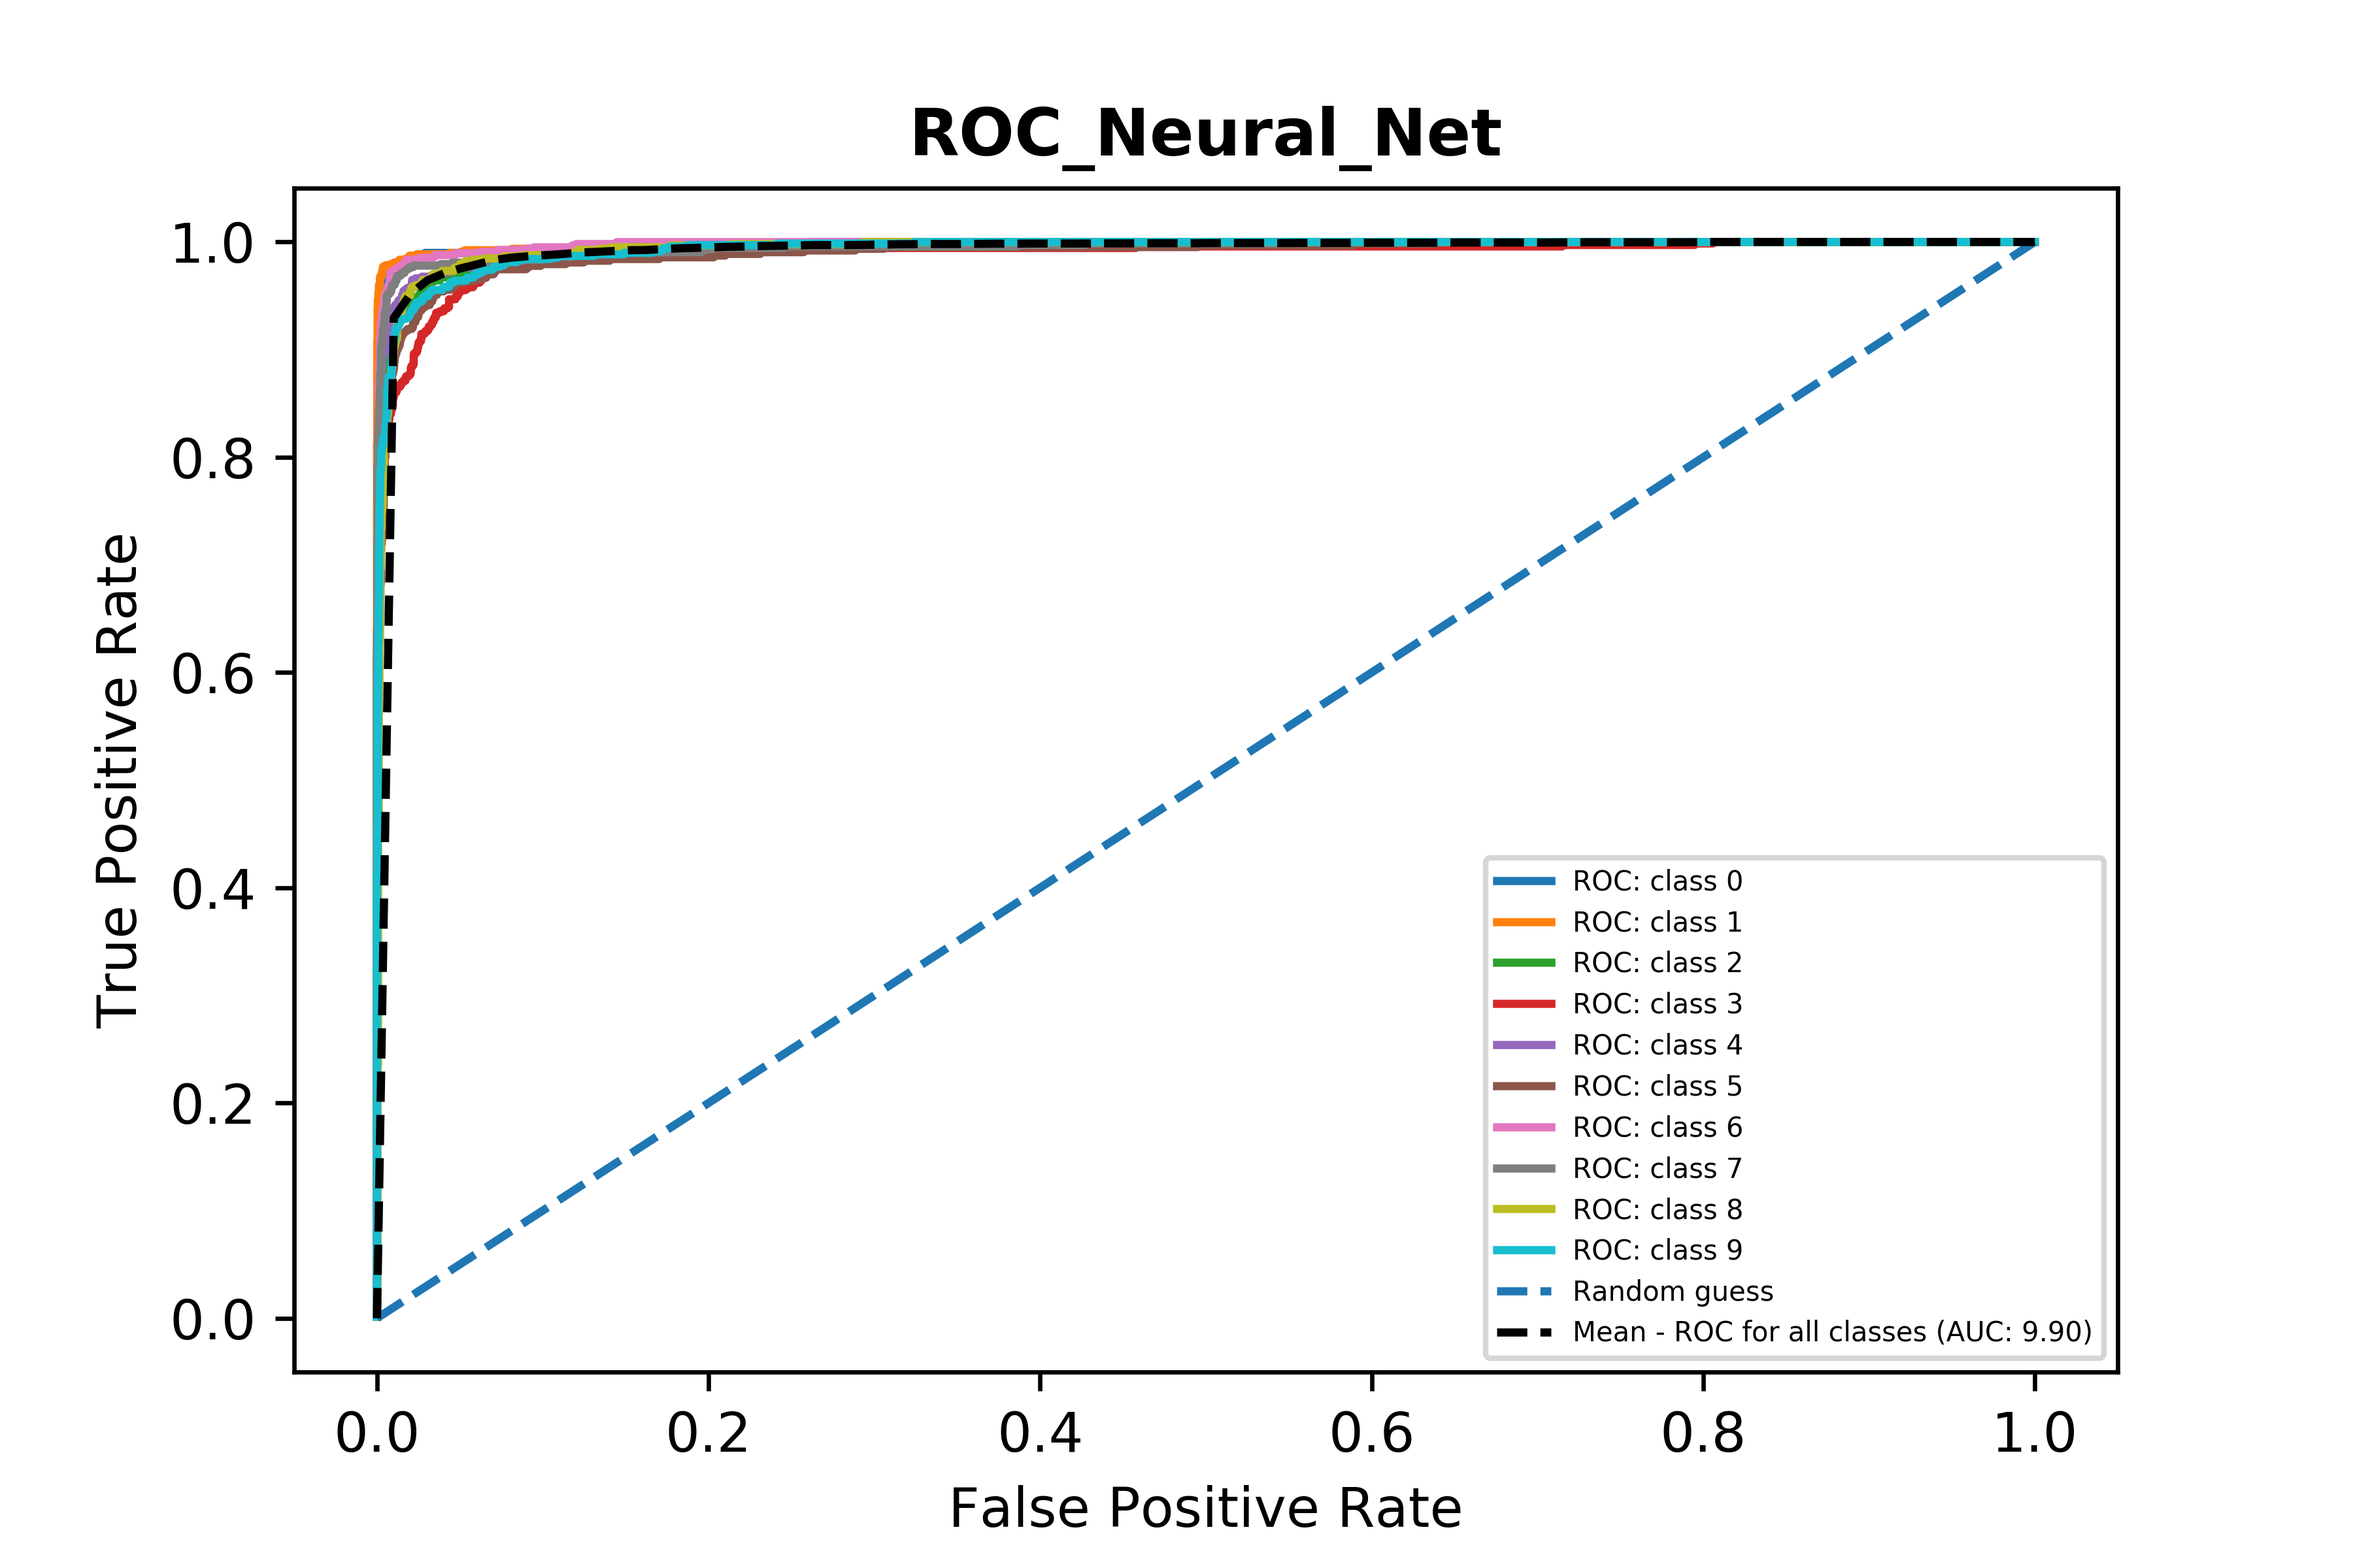
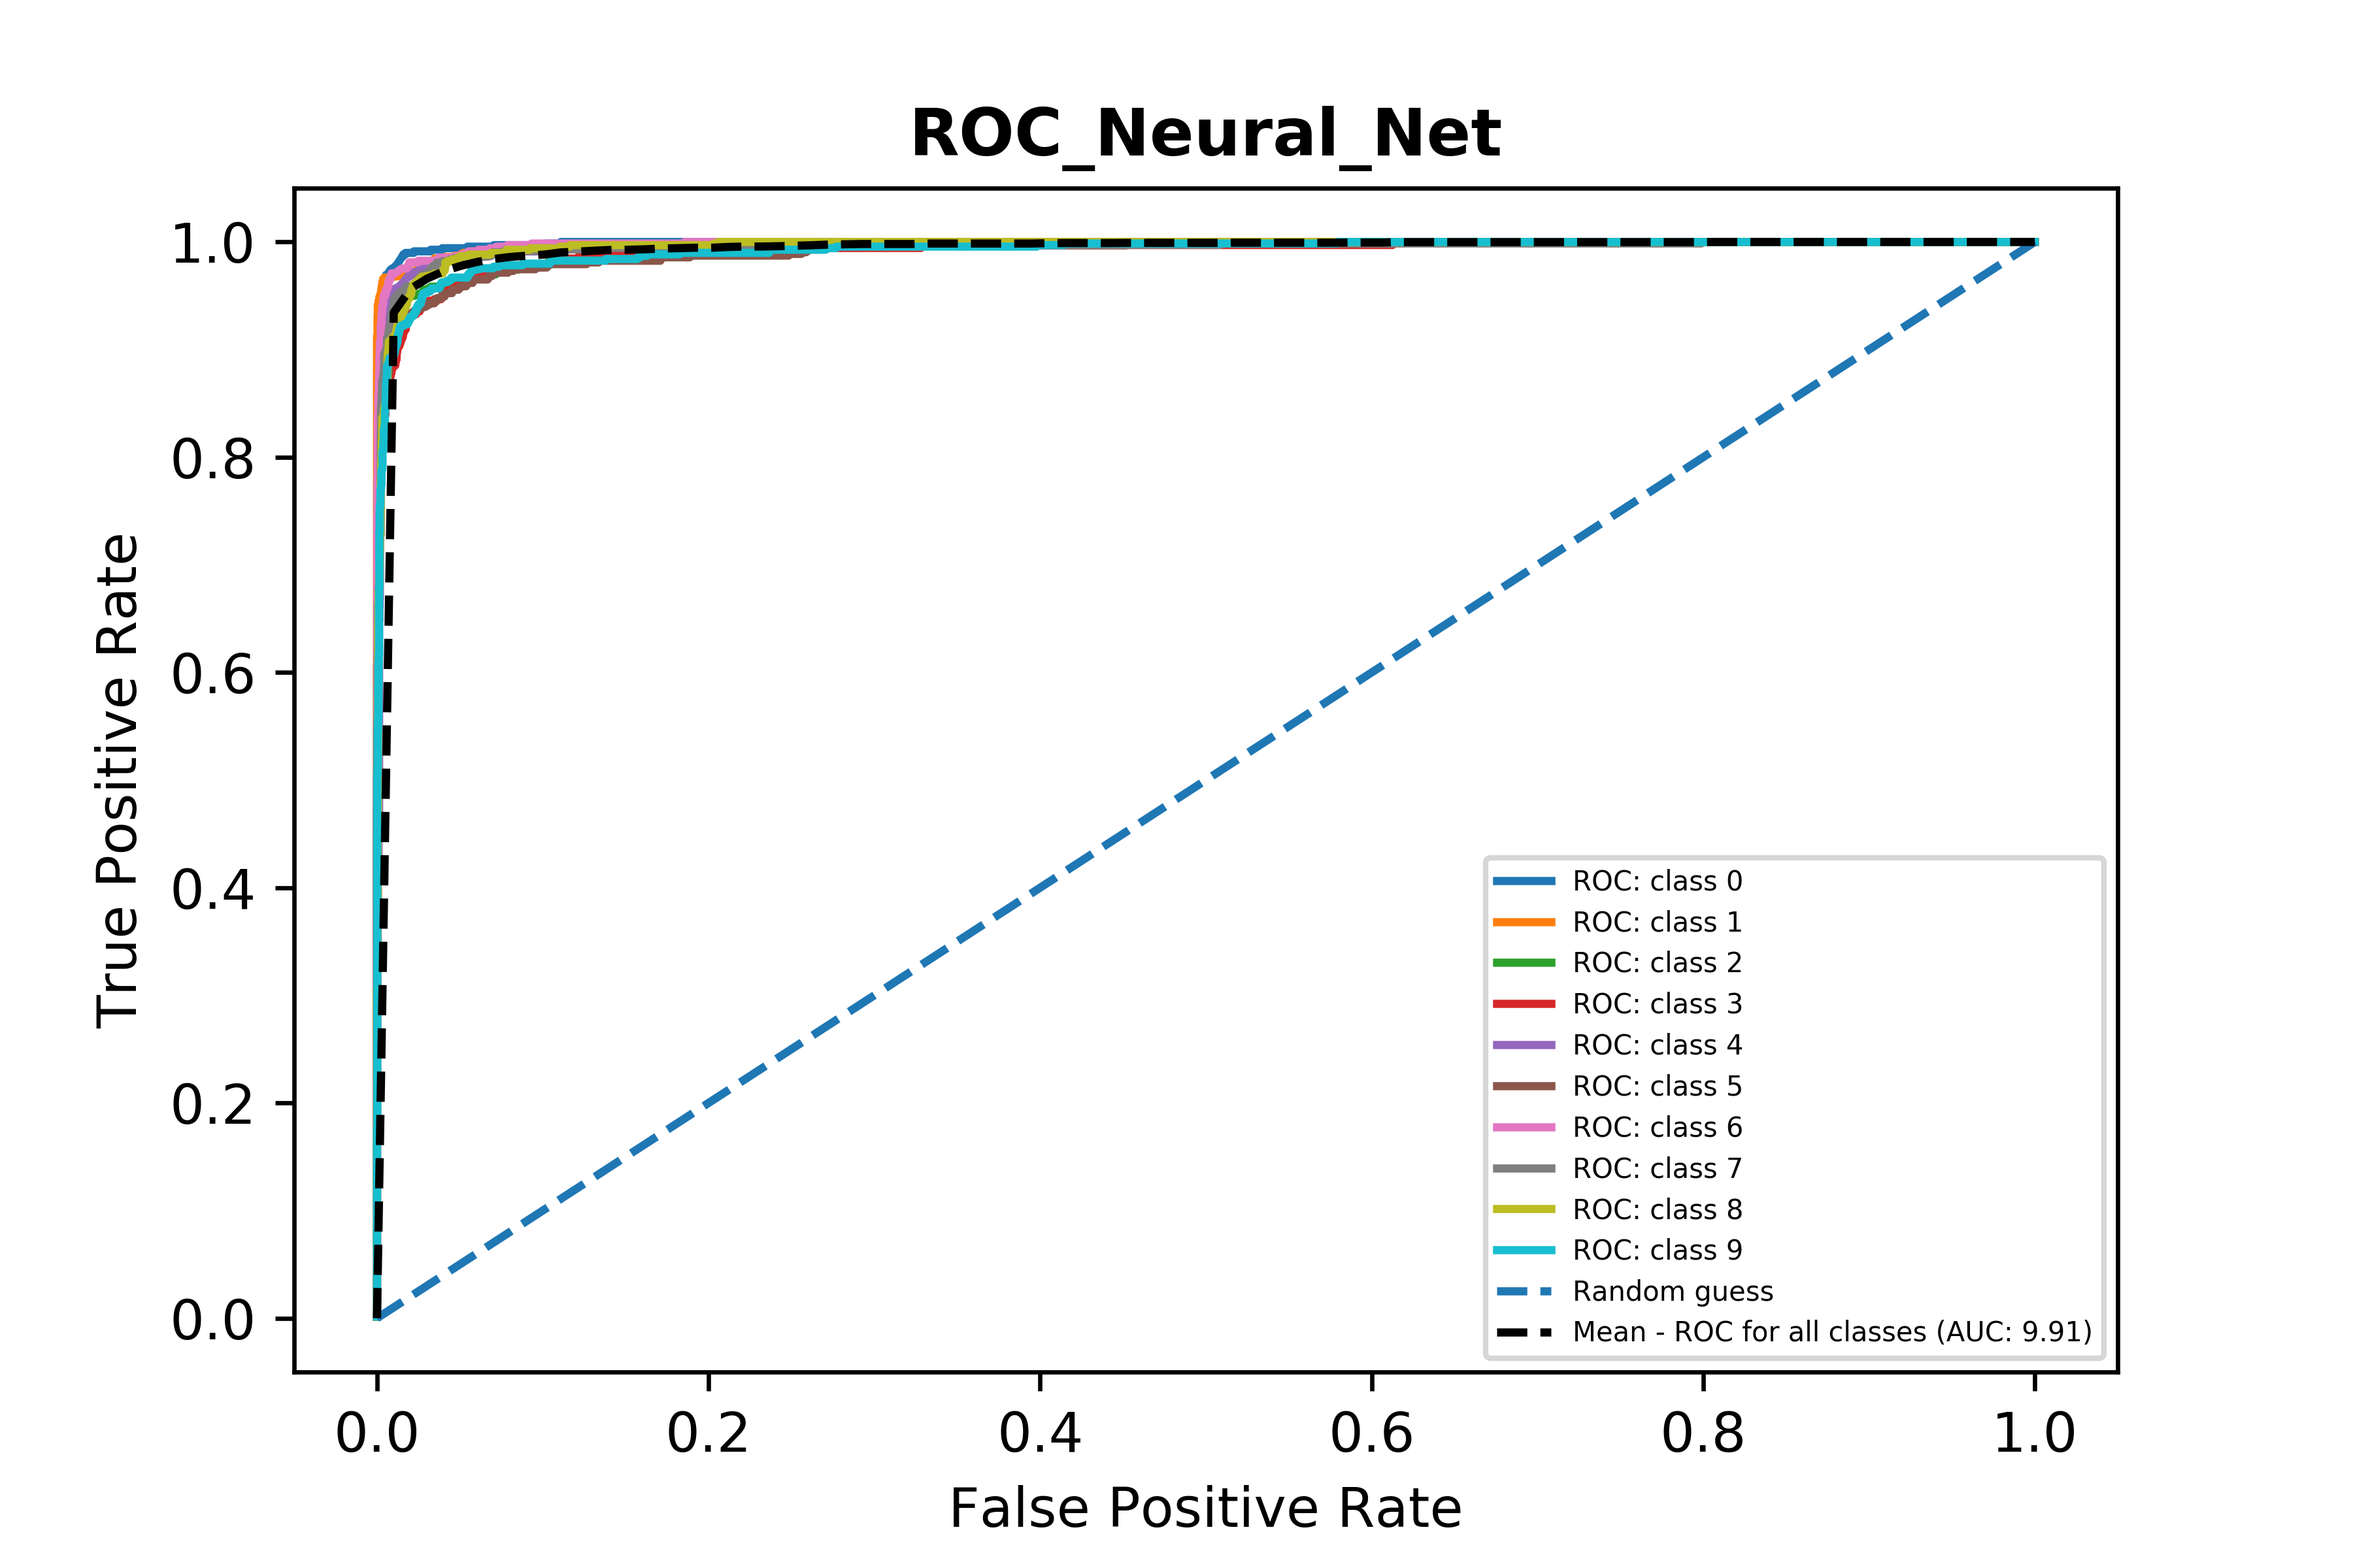
Adding plots with error bars

Changed region(s): [[0.1556, 0.125, 0.56, 0.3125], [0.5911, 0.1562, 0.6533, 0.1875]]

diff --git a/code/result_gen.py b/code/result_gen.py
@@ -42,16 +42,12 @@ def roc_curve_params(y_true, y_score, pos_label):
     desc_score_indices = np.argsort(y_score, kind="mergesort")[::-1]
     y_score = y_score[desc_score_indices]
     y_true = y_true[desc_score_indices]
-    weight = 1.
-
-    # y_score typically has many tied values. Here we extract
-    # the indices associated with the distinct values. We also
-    # concatenate a value for the end of the curve.
+    
     distinct_value_indices = np.where(np.diff(y_score))[0]
     threshold_idxs = np.r_[distinct_value_indices, y_true.size - 1]
 
     # accumulate the true positives with decreasing threshold
-    tps = np.cumsum(y_true * weight, dtype=np.float64)[threshold_idxs]
+    tps = np.cumsum(y_true, dtype=np.float64)[threshold_idxs]
     fps = 1 + threshold_idxs - tps
     
     fpr = fps / fps[-1]
@@ -82,4 +78,116 @@ def confusion_matrix_plot(conf_mat, classes, filename):
     plt.xlabel('Predicted label')
     plt.savefig(filename, dpi=600)
 #    plt.show()
+
+def plot_accuracy(accuracy_file_name, filename, plot_no):
+    accuracy_values = np.loadtxt(accuracy_file_name , delimiter=',')
+    '''
+    accuracy_values_2 = np.loadtxt(accuracy_file_name_1 , delimiter=',')
+    accuracy_values = np.zeros((accuracy_values_1.shape[0] + accuracy_values_2.shape[0], accuracy_values_1.shape[1]))
+    accuracy_values[0,:] = accuracy_values_1[0,:]
+    accuracy_values[1:4,:] = accuracy_values_2
+    accuracy_values[4:] = accuracy_values_1[1:]
+    '''
     
+    if (plot_no == 1):
+        n = accuracy_values.shape[1]
+        alpha = np.logspace(-4,3,8)
+        
+        plt.figure()
+        plt.errorbar(alpha,accuracy_values.mean(axis=1), yerr=accuracy_values.std(axis=1)/np.sqrt(n),
+                     label='Accuracy')
+        plt.grid(linestyle='--')
+        plt.xscale('log')
+        plt.gca().set(xlabel=r'$\alpha$ (regularization)', ylabel='Mean Accuracy (10-fold CV)')
+        plt.title(r'$\alpha$ (regularization) optimization using the 10-fold CV') 
+        plt.savefig(filename, dpi = 600)
+        plt.show()
+    
+    elif (plot_no == 2):  
+        n = accuracy_values.shape[1]
+        act_fcns = ['logistic','tanh', 'relu']
+        x = np.arange(accuracy_values.shape[0])
+        
+        fig, ax = plt.subplots(1,1)
+        ax.set_xticks(np.arange(0,3,1))
+        ax.set_xticklabels(act_fcns, rotation=20)
+        ax.errorbar(x, accuracy_values.mean(axis=1), yerr=accuracy_values.std(axis=1)/np.sqrt(n),
+                     label='Accuracy')
+        ax.grid(linestyle='--')
+        ax.set_title('Choosing activation function using the 10-fold CV')
+        ax.set_ylabel('Mean accuracy') 
+        plt.savefig(filename, dpi = 600)
+        plt.show()
+    
+    elif (plot_no == 3):
+        n = accuracy_values.shape[1]
+        learn_rate = np.arange(0.0001, 0.0021, 0.0001)
+        
+        plt.figure()
+        plt.errorbar(learn_rate,accuracy_values.mean(axis=1), yerr=accuracy_values.std(axis=1)/np.sqrt(n),
+                     label='Accuracy')
+        plt.grid(linestyle='--')
+        plt.gca().set(xlabel=r'Learning rate ($\eta$)', ylabel='Mean Accuracy (10-fold CV)')
+        plt.title(r'Learning rate ($\eta$) optimization using the 10-fold CV') 
+        plt.savefig(filename, dpi = 600)
+        plt.show()
+        
+    elif(plot_no == 4):      
+        n = accuracy_values.shape[1]
+        mean_accuracy = accuracy_values.mean(axis=1)
+        yerr_std = accuracy_values.std(axis=1)/np.sqrt(n)
+        C = np.logspace(-2,2,num=5)
+        C = np.append(C,np.array([2,5,20,40,50,60,70,80,90]))
+        
+        mean_accuracy_ord = np.array([])
+        mean_accuracy_ord = np.concatenate((mean_accuracy[:3],mean_accuracy[5:7],mean_accuracy[7:]))
+        mean_accuracy_ord = np.insert(mean_accuracy_ord, 5,mean_accuracy[3])
+        mean_accuracy_ord = np.insert(mean_accuracy_ord, 13,mean_accuracy[4])
+        var_accuracy_ord = np.array([])
+        var_accuracy_ord = np.concatenate((yerr_std[:3],yerr_std[5:7],yerr_std[7:]))
+        var_accuracy_ord = np.insert(var_accuracy_ord, 5,yerr_std[3])
+        var_accuracy_ord = np.insert(var_accuracy_ord, 13,yerr_std[4])
+        C_ord = np.array([])
+        C_ord = np.concatenate((C[:3],C[5:7],C[7:]))
+        C_ord = np.insert(C_ord, 5,C[3])
+        C_ord = np.insert(C_ord, 13,C[4])
+        plt.figure()
+        plt.grid(linestyle='--')
+        plt.errorbar(C_ord,mean_accuracy_ord, yerr=var_accuracy_ord,
+                     label='Accuracy')
+        plt.plot(C_ord,mean_accuracy_ord)
+        plt.gca().set(xlabel='C (regularization)', ylabel='Mean Accuracy (10-fold CV)')
+        plt.title('C (regularization) optimization using the 10-fold CV')    
+        plt.savefig(filename, dpi = 600)
+        plt.show()
+    
+def main():
+
+    '''    
+    Neural Net Plots
+    '''
+    # Parameter tuning
+    csv_filename_1 = "../experiments/expNN/neural_net_accuracy_vs_alpha.csv"
+    filename_1 = '..\Results_Plots\Neural_net_alpha_mean_acc_error_bar.png'
+    
+    csv_filename_2 = "../experiments/expNN/neural_net_accuracy_vs_activation_fcn.csv"
+    filename_2 = '..\Results_Plots\Neural_net_act_fcn_mean_acc_error_bar.png'
+    
+    csv_filename_3 = "../experiments/expNN/neural_net_accuracy_vs_learn_rate.csv"
+    filename_3 = '..\Results_Plots\Neural_net_learn_rate_mean_acc_error_bar.png'
+
+    plot_accuracy(csv_filename_1, filename_1, 1)
+    plot_accuracy(csv_filename_2, filename_2, 2)
+    plot_accuracy(csv_filename_3, filename_3, 3)
+    
+    '''    
+    SVM Plots
+    '''
+    csv_filename_4 = "../experiments/expSVM/svm_accuracy_vs_C.csv"
+    filename_4 = '..\Results_Plots\SVM_regularization_C_mean_acc_error_bar.png'
+
+    plot_accuracy(csv_filename_4, filename_4, 4)
+
+    
+if __name__ == "__main__":
+    main()

diff --git a/code/neural_net_experiments.py b/code/neural_net_experiments.py
@@ -184,3 +184,14 @@ def k_fold_CV_hypothesis_test():
     np.savetxt("../experiments/expNN/neural_net_train_time_hypo_test.csv", train_time, delimiter=",", fmt="%.3f")
     np.savetxt("../experiments/expNN/neural_net_predict_time_hypo_test.csv", predict_time, delimiter=",", fmt="%.3f")
     
+def k_fold_CV_hypothesis_test_without_PCA():
+    alpha = 100
+    learn_rate = 0.002
+    act_fcn = 'logistic'
+    accuracy, train_time, predict_time = mnist_neural_net.cross_validation_k_fold(alpha = alpha, 
+                       act_fcn = act_fcn,learn_rate=learn_rate)
+    
+    np.savetxt("../experiments/expNN/neural_net_accuracy_hypo_test_without_pca.csv", accuracy, delimiter=",", fmt="%.3f")
+    np.savetxt("../experiments/expNN/neural_net_train_time_hypo_test_without_pca.csv", train_time, delimiter=",", fmt="%.3f")
+    np.savetxt("../experiments/expNN/neural_net_predict_time_hypo_test_without_pca.csv", predict_time, delimiter=",", fmt="%.3f")
+    

diff --git a/code/main.py b/code/main.py
@@ -3,7 +3,7 @@ import svm_experiments
 import mnist_knn
 
 """Neural Network (Parameter tuning)"""
-#neural_net_experiments.k_fold_CV_regularization_Neural_Net()
+neural_net_experiments.k_fold_CV_regularization_Neural_Net()
 #neural_net_experiments.k_fold_CV_Activation_fcn_Neural_Net()
 #neural_net_experiments.k_fold_CV_Learn_rate_Neural_Net()
 #neural_net_experiments.neural_net_tss()
@@ -22,5 +22,6 @@ import mnist_knn
 #mnist_knn.knn_expt_for_varied_tss()
 
 """Hypothesis testing"""
-neural_net_experiments.k_fold_CV_hypothesis_test()
-svm_experiments.k_fold_CV_hypothesis_test()
+#neural_net_experiments.k_fold_CV_hypothesis_test()
+#svm_experiments.k_fold_CV_hypothesis_test()
+#neural_net_experiments.k_fold_CV_hypothesis_test_without_PCA()
